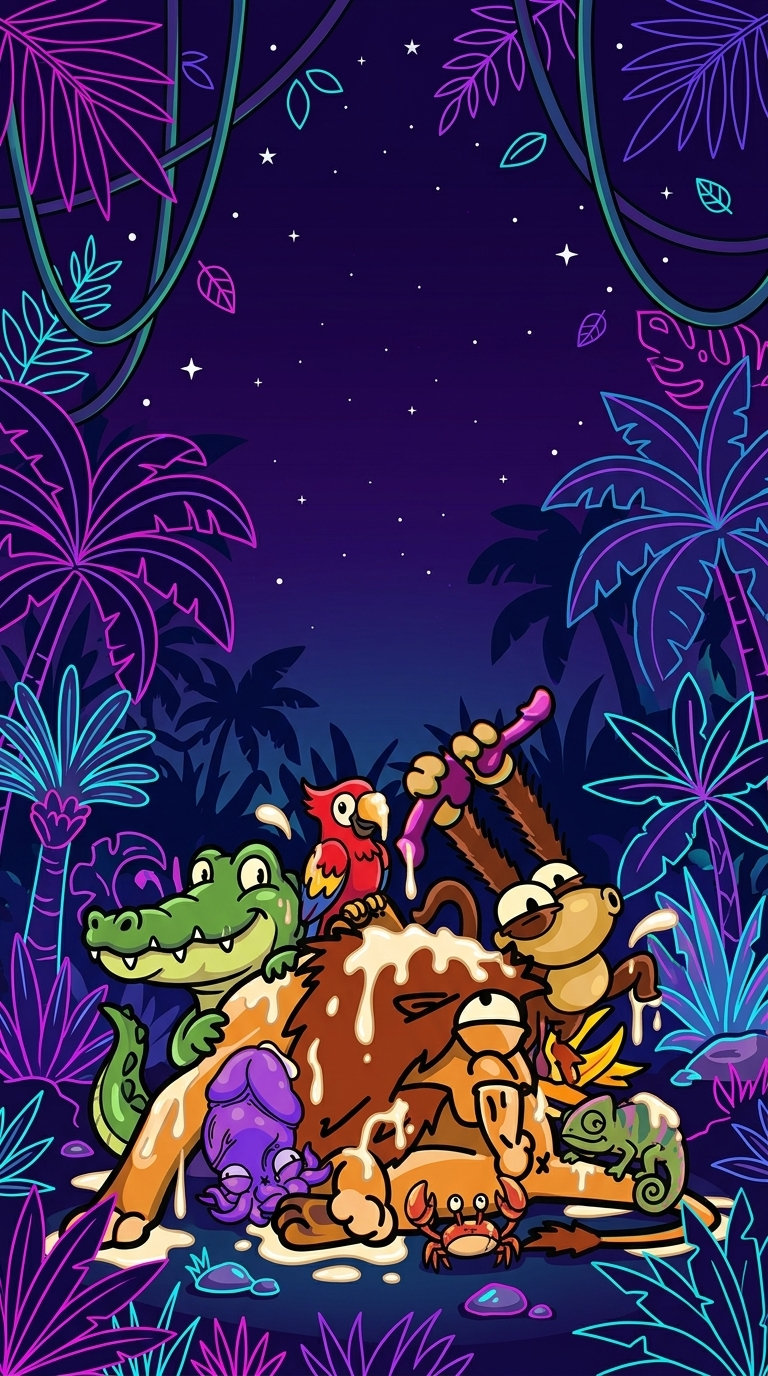
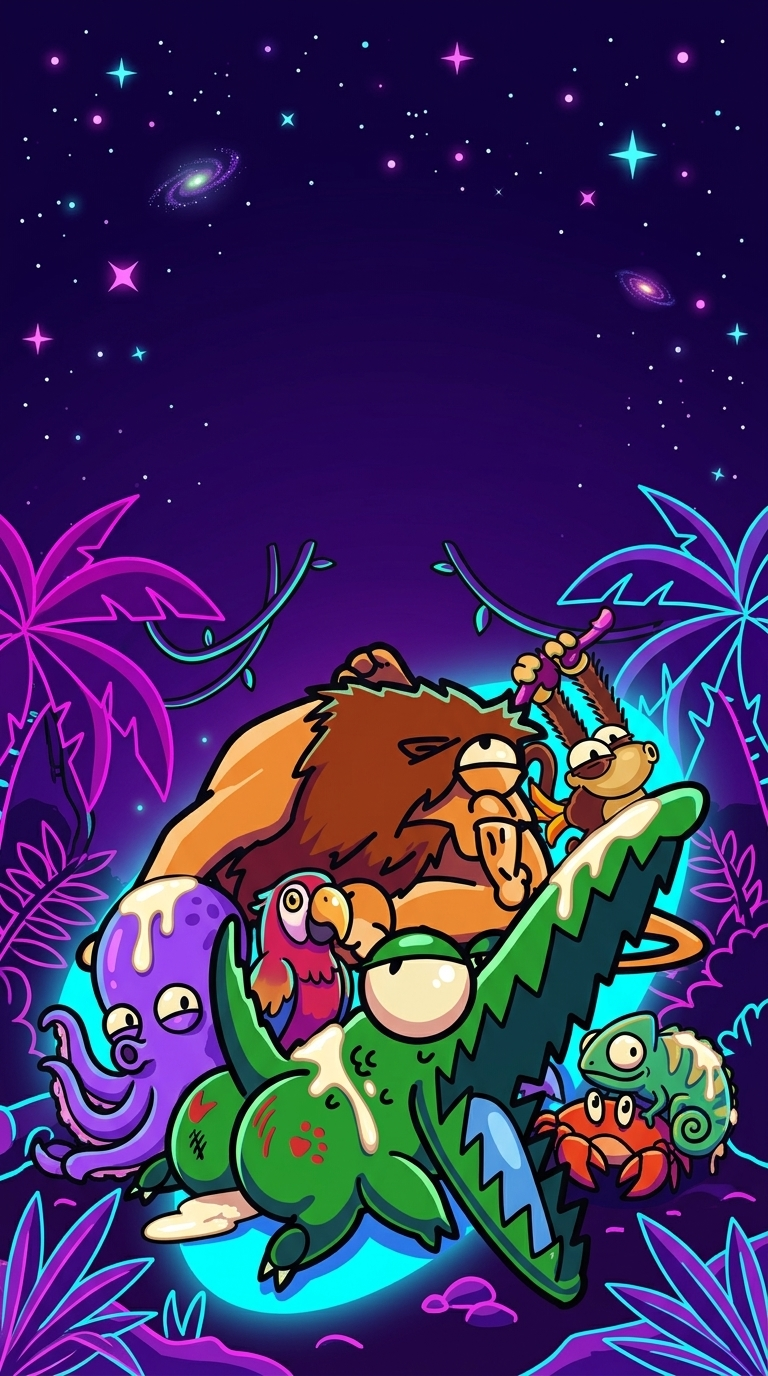
feat(design): feature cheeky crocodile butt in foreground on home neon background

diff --git a/index.html b/index.html
@@ -39,7 +39,7 @@
                 <button class="btn btn-main" onclick="game.hostRoom()">Créer un Salon</button>
                 <button class="btn btn-secondary" onclick="ui.showScreen('screen-join')">Rejoindre</button>
                 <button id="btn-install-app" class="btn" style="display:none; background:linear-gradient(135deg,#1e90ff,#3742fa);" onclick="ui.installPWA()">Installer l'application</button>
-                <button class="btn btn-rules" onclick="ui.showHelpModal()">Règles du Jeu <span class="version-pill">v2.20</span></button>
+                <button class="btn btn-rules" onclick="ui.showHelpModal()">Règles du Jeu <span class="version-pill">v2.21</span></button>
             </div>
         </div>
 
